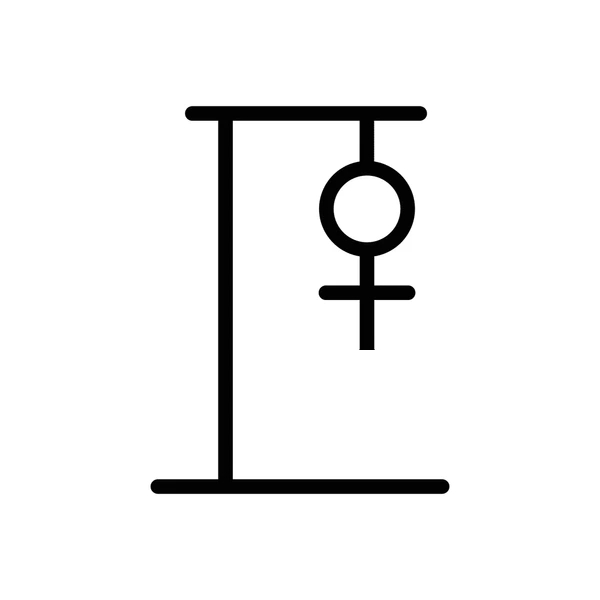
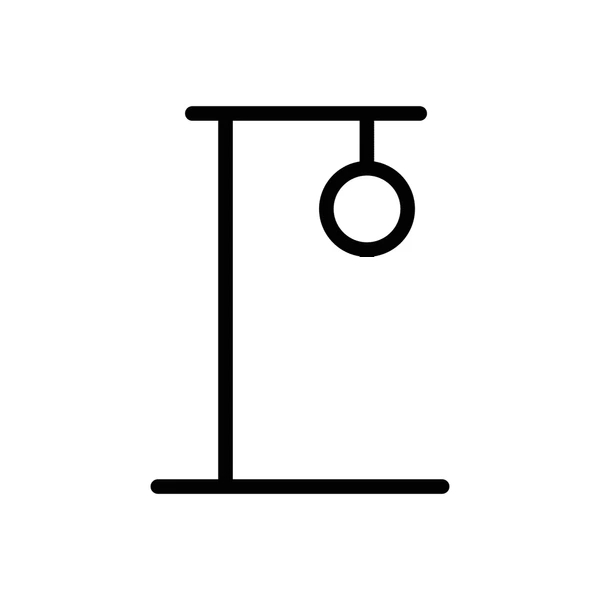
si

Changed region(s): [[0.51, 0.42, 0.69, 0.6]]

diff --git a/paginas/penjat.html b/paginas/penjat.html
@@ -9,18 +9,20 @@
 
 
 <body>
-    <div class="row justify-content-around text-center" id="penjat">
-        <img src="../imagenes/1.jpg" alt="MDN" />
+     <div class="row justify-content-around text-center" id="penjat">
+        <img id="imagenes" src="../imagenes/6.jpg" alt="MDN" />
 
     </div>
     <script>
-
+        
         window.addEventListener("message", (vidas) => {
-            // Només acceptem peticions amb el mateix origen
+            
             if (vidas.origin === "http://127.0.0.1:5500") {
-              
+                
+                            document.getElementById("imagenes").setAttribute("src", "../imagenes/" + vidas.data.vidas + ".jpg")
 
-console.log(vidas)
+
+                console.log(vidas.data)
 
 
 

diff --git a/js/form.js b/js/form.js
@@ -7,6 +7,7 @@
 function letra_incorrecta(vidas){
 vidas--;
 win.postMessage({vidas}, "http://127.0.0.1:5500");
+console.log(XMLDocument.vidas)
 
 return vidas
 }

diff --git a/paginas/styles.css b/paginas/styles.css
@@ -16,3 +16,8 @@ a {
 
 
 
+.linia {
+    display: flex;
+    flex-wrap: wrap;
+    justify-content: center;
+}
